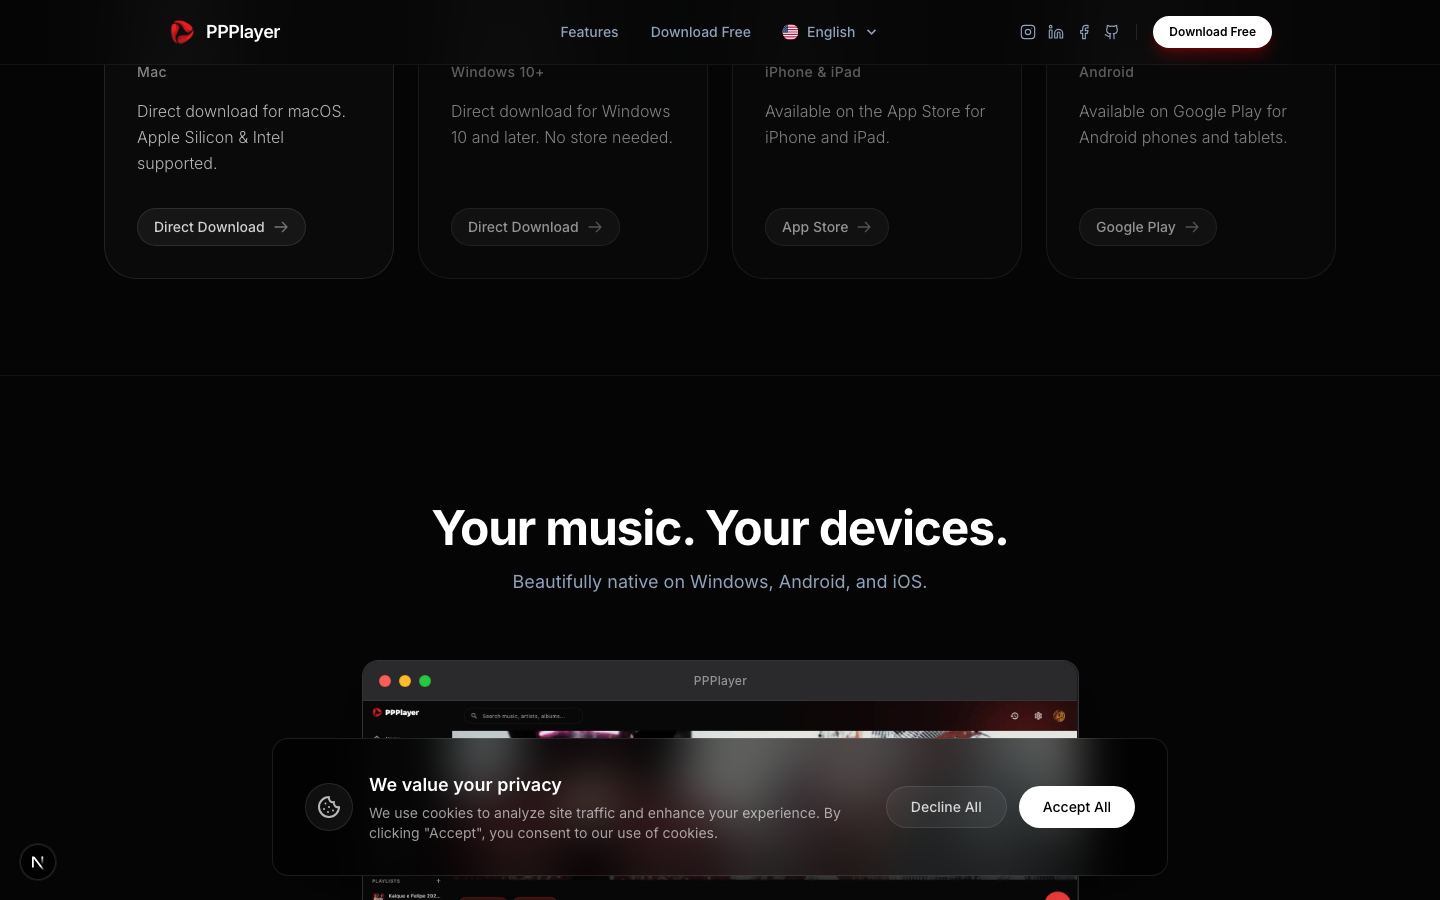
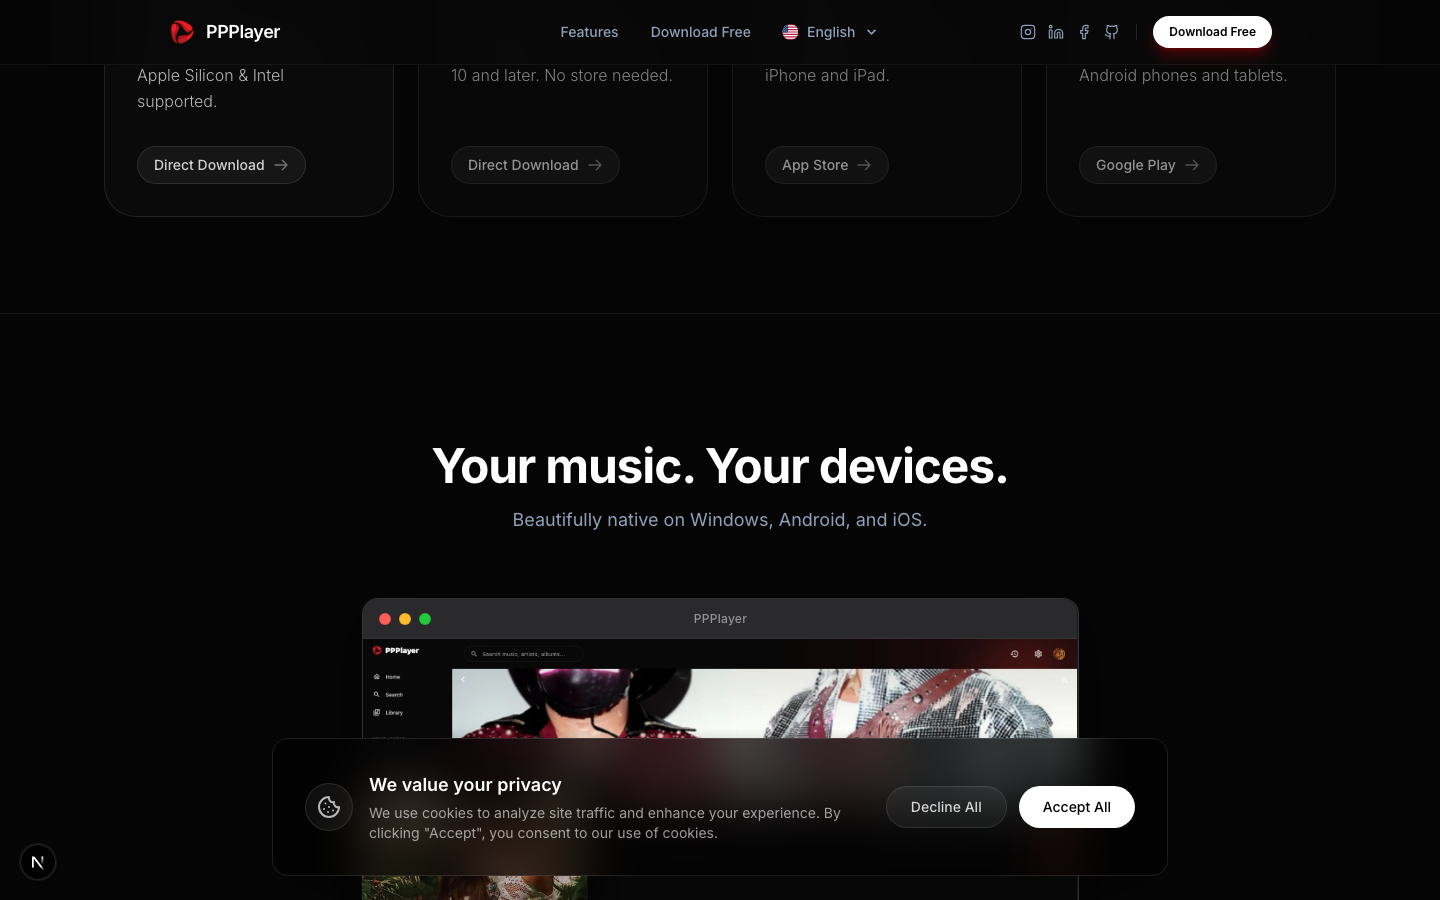
refactor: remove download badge from download page and update associated visual assets

diff --git a/app/[locale]/download/page.tsx b/app/[locale]/download/page.tsx
@@ -39,12 +39,7 @@ export default async function DownloadPage({ params }: { params: Promise<{ local
           </div>
           
           <div className="relative max-w-4xl mx-auto px-4 z-10">
-            <div className="flex justify-center mb-8">
-              <a href="#download" className="inline-flex items-center gap-2 px-4 py-1.5 rounded-full text-sm font-medium text-white border border-white/10 bg-white/5 backdrop-blur-md shadow-2xl hover:bg-white/10 transition-colors group">
-                <span className="opacity-90">{t("badge")}</span>
-                <span className="text-white/40 group-hover:text-white transition-colors group-hover:translate-x-0.5 duration-300">→</span>
-              </a>
-            </div>
+
             
             <h1 className="text-6xl sm:text-7xl md:text-8xl font-black tracking-tighter mb-6 leading-[0.95] cursor-default">
               {t.rich("title", {
